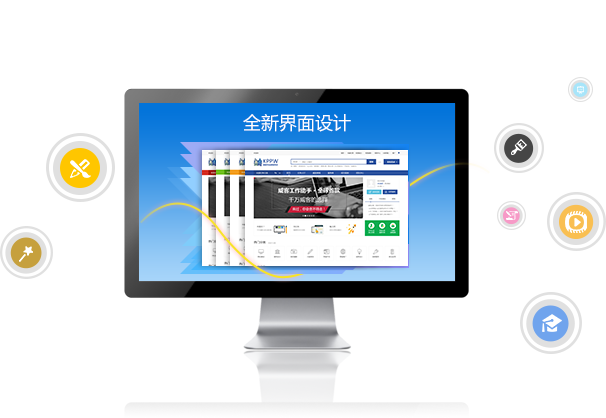
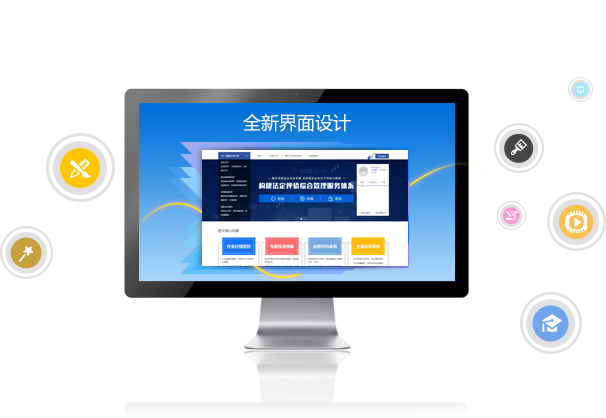
bug20180104

Changed region(s): [[0.3267, 0.3421, 0.6832, 0.6531]]

diff --git a/public/css/addshouye.css b/public/css/addshouye.css
@@ -82,7 +82,7 @@
 .addimgbo span {
 	display: block;
 	float: left;
-	width: 156px;
+	width: 117px;
 	height: 42px;
 	border: 1px solid #2f549f;
 	border-radius: 5px;
@@ -95,7 +95,7 @@
 .addimgbo img {
 	display: block;
 	float: left;
-	margin: 14px 18px;
+	margin: 14px 2px;
 }
 
 .allg {

diff --git a/public/themes/default/views/bre/homepage.blade.php b/public/themes/default/views/bre/homepage.blade.php
@@ -54,6 +54,7 @@
                             <p>政府专家库评审专家提供服务，保证服务专业性</p>
                             <p>参照行业评审要点，提供标准化、流程化仲裁机制</p>
                             <p>规范仲裁过程，保障技术仲裁程序公正操作便捷</p>
+                            <p>平台随机匹配专家进行技术仲裁，保证仲裁的公正客观性</p>
                         </div>
                     </li>
                     <li class="sihebg03">
@@ -82,13 +83,19 @@
                 <div class="addimgbo">
                     <span>企业发布任务</span>
                     <img src="img/youjt.jpg">
-                    <span>服务机构接任务</span>
+                    <span>评价机构接任务</span>
                     <img src="img/youjt.jpg">
-                    <span>企业选择服务机构</span>
+                    <span>企业选择评价机构</span>
                     <img src="img/youjt.jpg">
-                    <span>签署协议完成作业</span>
+                    <span>双方签署协议</span>
                     <img src="img/youjt.jpg">
-                    <span>验收、付款</span>
+                    <span>选择资金托管</span>
+                    <img src="img/youjt.jpg">
+                    <span>线下完成作业</span>
+                    <img src="img/youjt.jpg">
+                    <span>选择专家仲裁</span>
+                    <img src="img/youjt.jpg">
+                    <span>付款</span>
                     <img src="img/youjt.jpg">
                     <span>双方互评</span>
                 </div>
@@ -649,7 +656,7 @@
                         <li class="col-md-4 col-sm-5 col-xs-6 g-taskItem">
                             <p class="p-space"><a class="cor-gray51 s-hometit" href="/task/{{$v1['id']}}" target="_blank">{{$v1['title']}}</a></p>
                             <p class="p-space mg-margin">
-                                <span class="cor-orange s-homewrap1 p-space">@if($v1['show_cash'])￥{{$v1['show_cash']}}@else ￥0 @endif</span>
+                                {{--<span class="cor-orange s-homewrap1 p-space">@if($v1['show_cash'])￥{{$v1['show_cash']}}@else ￥0 @endif</span>--}}
                                 <span class="s-homewrap1 p-space">{{$v1['name']}}发布</span>
                                 <span class="s-homewrap1 p-space">{{$v1['delivery_count']}}投标</span>
                             </p>
@@ -663,29 +670,31 @@
     <!--最新动态-->
     <div class="col-lg-3  g-taskright hidden-md hidden-sm hidden-xs col-left col-right">
         <h4 class=" text-size24 cor-gray45">最新动态</h4>
-        <div class="space-8"></div>
+        <div class="space-8" style="margin: 0 0 7px;"></div>
         <div class="b-border txtMarquee-top u-rightwrap1 clearfix">
             <div class="bd clearfix">
                 <ul class="mg-margin  clearfix">
                     @if($active)
                         @foreach($active as $k2 => $v2)
+                            @if($v2['title'])
                             <li class="u-rlistitem clearfix">
-                                <p class="text-size14 s-hometit">
+                                <p class="text-size14 s-hometit" style="white-space:normal">
                                     <i class="fa fa-circle-thin cor-grayC2 text-size12"></i>
                                     <a href="/bre/serviceCaseList/{{$v2['uid']}}" class="cor-blue2f" target="_blank">{{$v2['name']}}</a>
                                     接受了任务：<a href="/task/{{$v2['task_id']}}" target="_blank">{{$v2['title']}}</a>
                                 </p>
 
                                 <div class="clearfix cor-grayC2">
-                                    <span class="pull-left">赏金：<span class="cor-orange">@if($v2['show_cash'])
+                                    {{--<span class="pull-left">赏金：<span class="cor-orange">@if($v2['show_cash'])
                                                 ￥{{$v2['show_cash']}}@else ￥0 @endif</span>
-                                    </span>
+                                    </span>--}}
                                     <span class="pull-right">@if(intval((time() - strtotime($v2['created_at']))/60) > 60)
                                             1小时前 @else {{intval((time() - strtotime($v2['created_at']))/60)}}
                                             分钟前 @endif
                                     </span>
                                 </div>
                             </li>
+                            @endif
                         @endforeach
                     @endif
                 </ul>

diff --git a/public/themes/default/partials/header.blade.php b/public/themes/default/partials/header.blade.php
@@ -23,7 +23,7 @@
                                     <div><a class="cor-blue2f" href="/user/myTasksList">我发布的任务<span class="red">@if(Theme::get('my_task') > 0){!! Theme::get('my_task') !!}@endif</span></a></div>
                                 </div>
                             </li>
-                            <li class="pull-left g-taskbarli"><a class="g-taskbar2 g-taskbarbor" href="/user/acceptTasksList">我是第三方评价机构 <i class="fa fa-caret-down"></i></a>
+                            <li class="pull-left g-taskbarli"><a class="g-taskbar2 g-taskbarbor" href="/user/acceptTasksList">我是评价机构 <i class="fa fa-caret-down"></i></a>
                                 <div class="g-taskbardown1">
                                     <div><a class="cor-blue2f" href="/user/switchUrl">我的店铺</a></div>
                                     <div><a class="cor-blue2f" href="/user/myTask">我的任务<span class="red">@if(Theme::get('my_focus_task') > 0){!! Theme::get('my_focus_task') !!} @endif</span></a></div>
@@ -65,7 +65,7 @@
                                     <div><a class="cor-blue2f" href="/user/myTasksList">我发布的任务<span class="red">@if(Theme::get('my_task') > 0){!! Theme::get('my_task') !!}  @endif</span></a></div>
                                 </div>
                             </li>
-                            <li class="pull-left g-taskbarli"><a class="g-taskbar2 g-taskbarbor" href="/user/acceptTasksList">我是第三方评价机构 <i class="fa fa-caret-down"></i></a>
+                            <li class="pull-left g-taskbarli"><a class="g-taskbar2 g-taskbarbor" href="/user/acceptTasksList">我是评价机构 <i class="fa fa-caret-down"></i></a>
                                 <div class="g-taskbardown1">
                                     <div><a class="cor-blue2f" href="/user/switchUrl">我的店铺</a></div>
                                     <div><a class="cor-blue2f" href="/user/myTask">我的任务<span class="red">@if(Theme::get('my_focus_task') > 0){!! Theme::get('my_focus_task') !!}  @endif</span></a></div>

diff --git a/public/themes/default/partials/substationheader.blade.php b/public/themes/default/partials/substationheader.blade.php
@@ -23,7 +23,7 @@
                                     <div><a class="cor-blue2f" href="/user/myTasksList">我发布的任务<span class="red">@if(Theme::get('my_task') > 0){!! Theme::get('my_task') !!}@endif</span></a></div>
                                 </div>
                             </li>
-                            <li class="pull-left g-taskbarli"><a class="g-taskbar2 g-taskbarbor" href="/user/acceptTasksList">我是第三方评价机构 <i class="fa fa-caret-down"></i></a>
+                            <li class="pull-left g-taskbarli"><a class="g-taskbar2 g-taskbarbor" href="/user/acceptTasksList">我是评价机构 <i class="fa fa-caret-down"></i></a>
                                 <div class="g-taskbardown1">
                                     <div><a class="cor-blue2f" href="/user/switchUrl">我的店铺</a></div>
                                     <div><a class="cor-blue2f" href="/user/myTask">我的任务<span class="red">@if(Theme::get('my_focus_task') > 0){!! Theme::get('my_focus_task') !!} @endif</span></a></div>
@@ -65,7 +65,7 @@
                                     <div><a class="cor-blue2f" href="/user/myTasksList">我发布的任务<span class="red">@if(Theme::get('my_task') > 0){!! Theme::get('my_task') !!}  @endif</span></a></div>
                                 </div>
                             </li>
-                            <li class="pull-left g-taskbarli"><a class="g-taskbar2 g-taskbarbor" href="/user/acceptTasksList">我是第三方评价机构 <i class="fa fa-caret-down"></i></a>
+                            <li class="pull-left g-taskbarli"><a class="g-taskbar2 g-taskbarbor" href="/user/acceptTasksList">我是评价机构 <i class="fa fa-caret-down"></i></a>
                                 <div class="g-taskbardown1">
                                     <div><a class="cor-blue2f" href="/user/switchUrl">我的店铺</a></div>
                                     <div><a class="cor-blue2f" href="/user/myTask">我的任务<span class="red">@if(Theme::get('my_focus_task') > 0){!! Theme::get('my_focus_task') !!}  @endif</span></a></div>

diff --git a/public/themes/default/partials/homeheader.blade.php b/public/themes/default/partials/homeheader.blade.php
@@ -20,7 +20,7 @@
                                 <div><a class="cor-blue2f" href="/user/myTasksList">我发布的任务<span class="red">@if(Theme::get('my_task') > 0){!! Theme::get('my_task') !!} @endif</span></a></div>
                             </div>
                         </li>
-                        <li class="pull-left g-taskbarli"><a class="g-taskbar2 g-taskbarbor" href="/user/acceptTasksList">我是第三方评价机构 <i class="fa fa-caret-down"></i></a>
+                        <li class="pull-left g-taskbarli"><a class="g-taskbar2 g-taskbarbor" href="/user/acceptTasksList">我是评价机构 <i class="fa fa-caret-down"></i></a>
                             <div class="g-taskbardown1">
                                 <div><a class="cor-blue2f" href="/user/switchUrl">我的店铺</a></div>
                                 <div><a class="cor-blue2f" href="/user/myTask">我的任务<span class="red">@if(Theme::get('my_focus_task') > 0){!! Theme::get('my_focus_task') !!} @endif</span></a></div>
@@ -62,7 +62,7 @@
                                 <div><a class="cor-blue2f" href="/user/myTasksList">我发布的任务<span class="red">@if(Theme::get('my_task') > 0 ){!! Theme::get('my_task') !!} @endif</span></a></div>
                             </div>
                         </li>
-                        <li class="pull-left g-taskbarli"><a class="g-taskbar2 g-taskbarbor" href="/user/acceptTasksList">我是第三方评价机构<i class="fa fa-caret-down"></i></a>
+                        <li class="pull-left g-taskbarli"><a class="g-taskbar2 g-taskbarbor" href="/user/acceptTasksList">我是评价机构<i class="fa fa-caret-down"></i></a>
                             <div class="g-taskbardown1">
                                 <div><a class="cor-blue2f" href="/user/switchUrl">我的空间</a></div>
                                 <div><a class="cor-blue2f" href="/user/myTask">我的任务<span class="red">@if(Theme::get('my_focus_task') > 0){!! Theme::get('my_focus_task') !!} @endif</span></a></div>

diff --git a/public/themes/default/views/task/tasks.blade.php b/public/themes/default/views/task/tasks.blade.php
@@ -3,7 +3,7 @@
     <div class="g-taskprocess hidden-xs">
         <div class="row">
             <div class="col-md-4 col-xs-4"><div class="g-taskpro1 pull-left"><span>免费发布任务</span><p>100%免费发布</p></div><div class="g-taskproico1 pull-right">></div></div>
-            <div class="col-md-4 col-xs-4"><div class="g-taskpro2 pull-left"><span>第三方评价机构</span><p>多家第三方评价机构，择优合作</p></div><div class="g-taskproico2 pull-right">></div></div>
+            <div class="col-md-4 col-xs-4"><div class="g-taskpro2 pull-left"><span>评价机构</span><p>多家评价机构，择优合作</p></div><div class="g-taskproico2 pull-right">></div></div>
             <div class="col-md-4 col-xs-4"><div class="g-taskpro3"><span>资金托管</span><p>平台资金托管，服务有保障</p></div></div>
         </div>
     </div>
@@ -198,7 +198,7 @@
                                     <i class="u-tasktime"></i>
                                     <span class="cor-red">{{ CommonClass::changeTimeType(strtotime($v['delivery_deadline'])-time())}}</span> 后截止投标
                                 @elseif($v['status']==5)
-                                    任务选稿中
+                                    任务选标中
                                 @elseif($v['status']==6)
                                     任务公示中
                                 @elseif($v['status']==7)

diff --git a/app/Modules/User/Http/Controllers/UserMoreController.php b/app/Modules/User/Http/Controllers/UserMoreController.php
@@ -752,7 +752,7 @@ class UserMoreController extends UserCenterController
 		if($taskType[0]['alias'] == 'xuanshang' && !isset($data['type'])){
 			$taskStatus=[
 				1=>'工作中', 
-				2=>'选稿中',
+				2=>'选标中',
 				3=>'交付中',
 				4=>'已结束',
 				5=>'其他'
@@ -763,7 +763,7 @@ class UserMoreController extends UserCenterController
 				case 'xuanshang':
 				$taskStatus=[
 					1=>'工作中', 
-					2=>'选稿中',
+					2=>'选标中',
 					3=>'交付中',
 					4=>'已结束',
 					5=>'其他'
@@ -772,7 +772,7 @@ class UserMoreController extends UserCenterController
 					2=>'已发布',
 					3=>'工作中',
 					4=>'工作中',
-					5=>'选稿中',
+					5=>'选标中',
 					6=>'工作中',
 					7=>'交付中',
 					8=>'已结束',
@@ -938,7 +938,7 @@ class UserMoreController extends UserCenterController
                     2=>'审核中',
                     3=>'工作中',
                     4=>'工作中',
-                    5=>'选稿中',
+                    5=>'选标中',
                     6=>'工作中',
                     7=>'交付中',
                     8=>'已结束',

diff --git a/public/themes/default/partials/worksidebar.blade.php b/public/themes/default/partials/worksidebar.blade.php
@@ -14,9 +14,9 @@
             <div class="g-sidenav {{ (preg_match('/^\/user\/(myTask|acceptTasksList)/',$_SERVER['REQUEST_URI']))?'z-active':'' }}">
                 <a href="/user/acceptTasksList" class="g-wrap2 {{ (preg_match('/^\/user\/(myTask|myTasksList)/',$_SERVER['REQUEST_URI']))?'active':'' }}">我承接的任务</a>
             </div>
-            <div class="g-sidenav {{ (preg_match('/^\/user\/(serviceMyJob)/',$_SERVER['REQUEST_URI']))?'z-active':'' }}">
+            {{--<div class="g-sidenav {{ (preg_match('/^\/user\/(serviceMyJob)/',$_SERVER['REQUEST_URI']))?'z-active':'' }}">
                 <a href="/user/serviceMyJob" class="g-wrap2 {{ (preg_match('/^\/user\/(serviceMyJob)/',$_SERVER['REQUEST_URI']))?'active':'' }}">我承接的服务</a>
-            </div>
+            </div>--}}
             <div class="g-sidenav {{ (preg_match('/^\/user\/(mySellGoods)/',$_SERVER['REQUEST_URI']))?'z-active':'' }}">
                 <a href="/user/mySellGoods" class="g-wrap2 {{ (preg_match('/^\/user\/(mySellGoods)/',$_SERVER['REQUEST_URI']))?'active':'' }}">我卖出的作品</a>
             </div>

diff --git a/public/themes/default/partials/usernav.blade.php b/public/themes/default/partials/usernav.blade.php
@@ -87,7 +87,7 @@
         <ul class="nav navbar-nav topborbtmul topborbtmul-nav nofloat">
             @if(Theme::get('TYPE') == 1)<li class="hidden-sm hActive"> @else <li class="hidden-sm "> @endif<a class="topborbtm" href="/user/index">我的主页</a></li>
             @if(Theme::get('TYPE') == 2)<li class="hidden-sm hidden-md hActive"> @else <li class="hidden-sm hidden-md"> @endif <a class="topborbtm" href="/user/myTasksList">我是企业</a></li>
-            @if(Theme::get('TYPE') == 3)<li class="hidden-sm hidden-md hActive"> @else <li class="hidden-sm hidden-md "> @endif <a class="topborbtm" href="/user/acceptTasksList">我是第三方评价机构</a></li>
+            @if(Theme::get('TYPE') == 3)<li class="hidden-sm hidden-md hActive"> @else <li class="hidden-sm hidden-md "> @endif <a class="topborbtm" href="/user/acceptTasksList">我是评价机构</a></li>
             <li class="z-navactive pdtom480">
                 <a href="#" class="dropdown-toggle" data-toggle="dropdown">
                     更多 <b class="caret"></b>

diff --git a/public/themes/default/views/task/create.blade.php b/public/themes/default/views/task/create.blade.php
@@ -377,7 +377,7 @@
                         </ul>
                     </div>
                     <div class="task-bt">
-                        <h3><strong>结算清单</strong></h3>
+                        {{--<h3><strong>结算清单</strong></h3>
                         <p class="text-size14">托管赏金：<span>￥<span id="bounty_money">0</span></span></p>
                         <div style="display:none;" id="service-box">
                             <p>增值服务：</p>
@@ -388,7 +388,7 @@
                                 </p>
                             @endforeach
                         </div>
-                        <p class="text-size14">应付总额 <span>￥<span id="total-price">0</span></span></p>
+                        <p class="text-size14">应付总额 <span>￥<span id="total-price">0</span></span></p>--}}
                         <div class="clearfix text-size12">
                             <label class="inline task-validform-right">
                                 @if(!empty($agree))

diff --git a/public/themes/default/views/user/usershop.blade.php b/public/themes/default/views/user/usershop.blade.php
@@ -51,7 +51,7 @@
                 <p class="g-userimgupinp g-userimgupbor-validform">
                     <input class="inputxt Validform_error input-large" type="text" name="shop_name"
                            @if(isset($shop_info->shop_name) && !empty($shop_info->shop_name))value="{!! $shop_info->shop_name !!}" @endif
-                           datatype="*2-10" nullmsg="请填写店铺名称！" errormsg="店铺名称字数超过限制">
+                           datatype="*2-20" nullmsg="请填写店铺名称！" errormsg="店铺名称字数超过限制">
                 </p>
             </div>
             <div class="clearfix g-userimgupbor task-casehid"><p class="pull-left h5 cor-gray51">店铺介绍</p>

diff --git a/public/themes/default/partials/footer.blade.php b/public/themes/default/partials/footer.blade.php
@@ -24,7 +24,7 @@
                 <p class="cor-gray97">服务热线：{!! Theme::get('site_config')['phone'] !!}</p>
                 <p class="cor-gray97">Email：{!! Theme::get('site_config')['Email'] !!}</p>
             </div>
-            <div class="col-lg-3 focusus visible-lg-block hidden-sm hidden-md hidden-xs col-left">
+            <div class="col-lg-3 focusus visible-lg-block hidden-sm hidden-md hidden-xs col-left" style="padding-top:0;">
                 <div class="cor-gray71 text-size14 focusushd"><span>关注我们</span></div>
                 <div class="space-8"></div>
                 <div class="clearfix">
